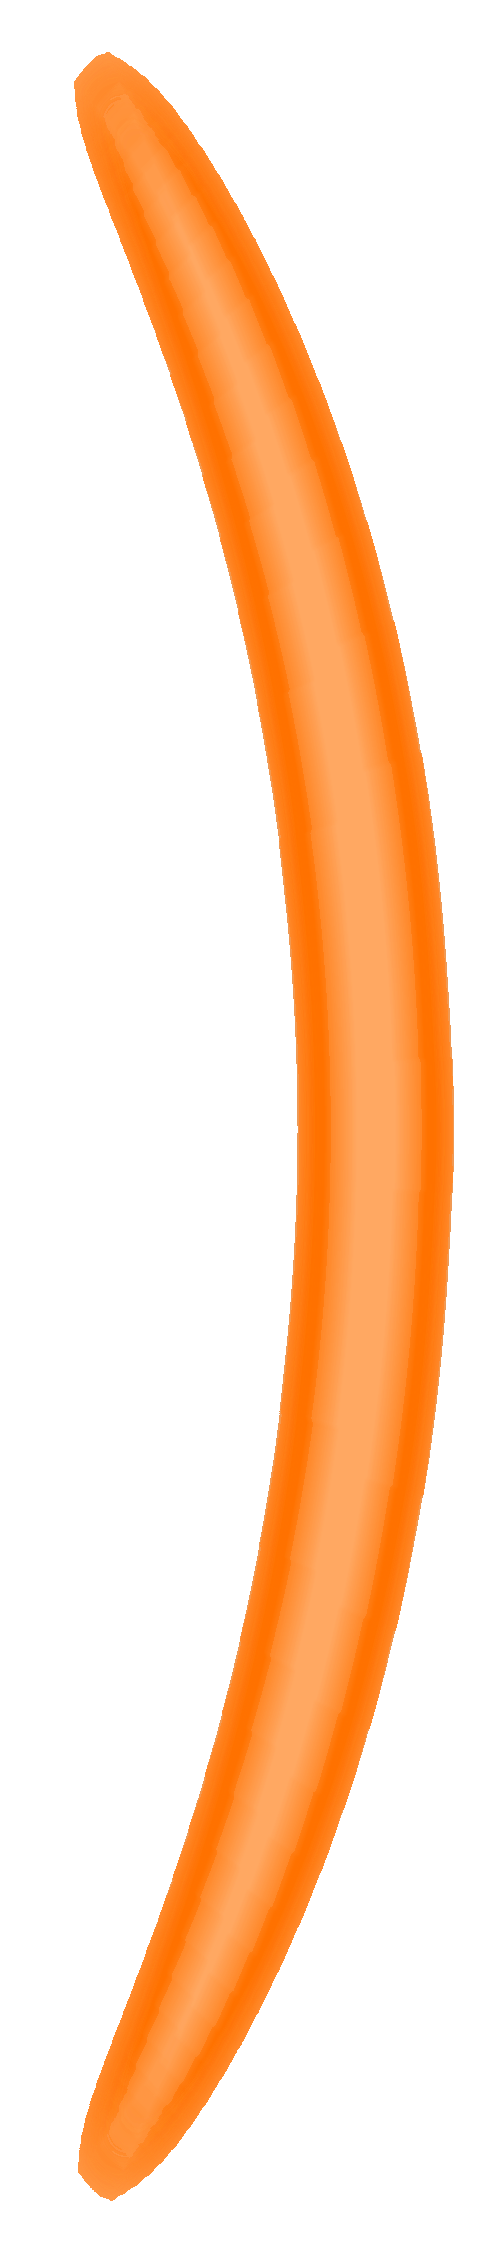
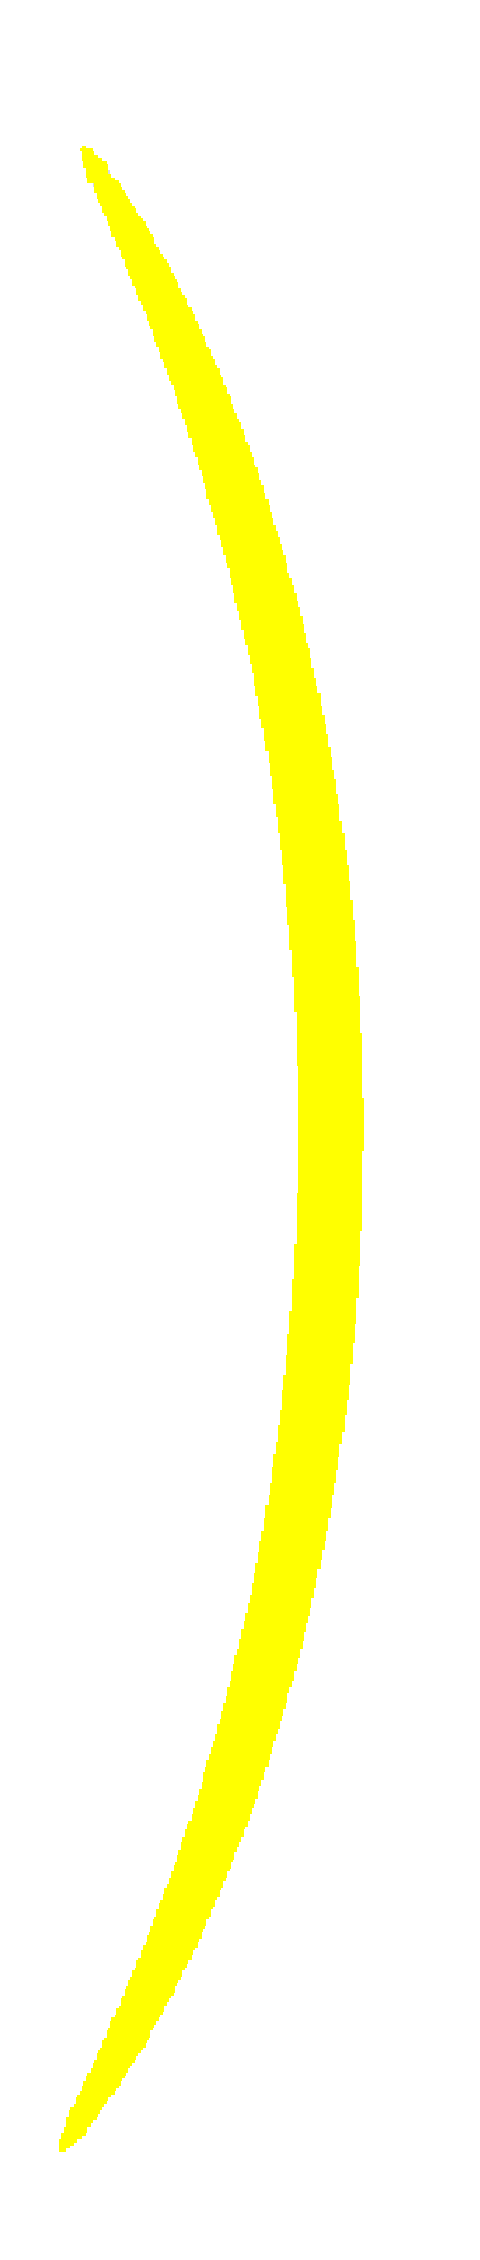
visualの変更

Changed region(s): [[0.125, 0.0, 0.9688, 0.9912]]

diff --git a/Ability.cpp b/Ability.cpp
@@ -13,7 +13,7 @@ void Bubble::Init() {
 	Longpressframe = 0;
 }
 void Bubble::Make(Player& players, Screen& screen) {
-	radius = 20 / screen.Zoom.x;
+	radius = 8 / screen.Zoom.x;
 	for (int i = 0; i < kBubbleMax; i++){
 		if (Longpressframe >= 20 && Longpressframe % kBubbleInterval == 0 && isOccur[i] == false){
 			pos[i].x = players.center.x + cosf(Degree(players.deg)) * (players.Length + kBubbleDistance / screen.Zoom.x);
@@ -72,7 +72,7 @@ void Slash::Init() {
 		{-1, 2.5},
 		{ 1, 2.5}
 	};
-	spd = 3.0f;
+	spd = 5.0f;
 	delayframe = 0;
 	shotframe = 0;
 	isOccur = false;
@@ -255,12 +255,12 @@ void Beam::Process(Player& players, Screen& screen) {
 }
 void Beam::Draw(Screen& screen) {
 	if (isOccur == true) {
-		screen.DrawQuad2Renban(pos1, Lefttop1, 0, 420, 2940, kBeamTimeMax / 10, 10, shotframe, beamImage, WHITE);
-		screen.DrawQuad2Renban(pos2, Lefttop2, 0, 420, 2940, kBeamTimeMax / 10, 10, shotframe, beamImage, WHITE);
+		screen.DrawQuad2Renban(pos1, Lefttop1, 0, 420, 2940, 10, kBeamTimeMax / 10, shotframe, beamImage, 0xFFFFFFAA);
+		screen.DrawQuad2Renban(pos2, Lefttop2, 0, 420, 2940, 10, kBeamTimeMax / 10, shotframe, beamImage, 0xFFFFFFAA);
 		for (int i = 0; i < kLineMax; i++){
 			if (life[i] > 0) {
-				screen.DrawQuad2(linepos1[i], 0, 0, 0, 0, 0, 0xFF9933FF);
-				screen.DrawQuad2(linepos2[i], 0, 0, 0, 0, 0, 0xFF9933FF);
+				screen.DrawQuad2(linepos1[i], 0, 0, 0, 0, 0, 0xF44336FF);
+				screen.DrawQuad2(linepos2[i], 0, 0, 0, 0, 0, 0xF44336FF);
 			}
 		}
 	}

diff --git a/main.cpp b/main.cpp
@@ -13,6 +13,7 @@ int WINAPI WinMain(HINSTANCE, HINSTANCE, LPSTR, int) {
 	char preKeys[256] = {0};
 
 	//
+	int background = Novice::LoadTexture("./resource./Background.png");
 	int drain = Novice::LoadAudio("./resource./ponyo.wav");
 	//
 	stage_1.Set_Map(0, 0, 2000, RED);
@@ -159,11 +160,23 @@ int WINAPI WinMain(HINSTANCE, HINSTANCE, LPSTR, int) {
 		
 
 		if (keys[DIK_Z] != 0) {
-			players.radius += 2;
+			radius += 15;
+		}
+		if (keys[DIK_X] != 0) {
+			radius -= 15;
 		}
 
 		//背景描画
-		Novice::DrawBox(0, 0, SCREEN_WIDTH, SCREEN_HEIGHT, 0.0f, 0x999999FF, kFillModeSolid);
+		//Novice::DrawBox(0, 0, SCREEN_WIDTH, SCREEN_HEIGHT, 0.0f, 0x160036FF, kFillModeSolid);
+		Novice::DrawBox(0, 0, SCREEN_WIDTH, SCREEN_HEIGHT, 0.0f, 0x2B1247FF, kFillModeSolid);
+		screen.DrawEllipse(0, 0, radius, radius, 0.0f, 0x090022FF, kFillModeSolid);
+		for (int y = -4; y < 5; y++) {
+			for (int x = -4; x < 5; x++) {
+				int width = 4000;
+				int height = 3000;
+				screen.DrawQuad(x * width, y * height, x * width + width, y * height, x * width, y * height + height, x * width + width, y * height + height, 0, 0, 2000, 1500, background, BLACK);
+			}
+		}
 		stage_1.DrawMap(screen);
 		for (int i = 0; i < Figure::FigureMax; i++) {
 			if (ellipse[i].cheakdraw(players,ellipse[i].position,screen,ellipse[i].flag)) {

diff --git a/Ability.h b/Ability.h
@@ -8,10 +8,10 @@ public:
 		Init();
 	}
 
-	static const int kBubbleMax = 12;
+	static const int kBubbleMax = 30;
 	static const int kBubbleTimeMax = 120;
 	static const int kBubbleStanFrame = 120;
-	static const int kBubbleInterval = 6;
+	static const int kBubbleInterval = 2;
 	static const int kBubbleDistance = 100;
 
 	Vec2 pos[kBubbleMax];
@@ -21,8 +21,8 @@ public:
 	bool isRelease[kBubbleMax];
 	int Shotframe[kBubbleMax];
 	int Longpressframe;
-	unsigned int color = 0xFF6E00FF;
-	float spd = 3;
+	unsigned int color = 0xE5C210FF;
+	float spd = 5;
 	float radius;
 
 	void Init();
@@ -72,7 +72,7 @@ public:
 	}
 
 	static const int kBeamSizeMax = 120;
-	static const int kBeamTimeMax = 120;
+	static const int kBeamTimeMax = 90;
 	static const int kBeamInterval = 180;
 
 	static const int kLineMax = 50;

diff --git a/Screen.cpp b/Screen.cpp
@@ -74,10 +74,10 @@ void Screen::DrawEllipse(float x, float y, float radiusX, float radiusY, float a
 }
 
 void Screen::DrawSprite(int x, int y, int textureHandle, int scaleX, int scaleY, int angle, unsigned int color) {
-	Novice::DrawSprite( 
-		x + Worldcenter.x + ScreenShake.x, 
-		y * -1 + Worldcenter.y - ScreenShake.y,  
-		textureHandle,  scaleX,  scaleY,  angle,  color);
+	Vec2 tmp(x - Scroll.x, y - Scroll.y);
+	x = tmp.x * Zoom.x + Worldcenter.x + ScreenShake.x;
+	y = tmp.y * Zoom.y * -1 + Worldcenter.y - ScreenShake.y;
+	Novice::DrawSprite(x, y , textureHandle, scaleX, scaleY, angle, color);
 }
 
 void Screen::DrawSpriteRect(int destX, int destY, int srcX, int srcY, int srcW, int srcH, int textureHandle, int scaleX, int scaleY, int angle, unsigned int color) {

diff --git a/Particle.cpp b/Particle.cpp
@@ -41,7 +41,7 @@ void PlayerP::ParticleProcess(Player& players, Screen& screen) {
 void PlayerP::DrawParticle(Screen& screen) {
     for (int i = 0; i < PARTICLE_MAX; i++) {
         if (life[i] > 0) {
-            screen.DrawEllipse(pos[i].x, pos[i].y, radius[i], radius[i], 0.0f, 0xFF6E00FF, kFillModeSolid);
+            screen.DrawEllipse(pos[i].x, pos[i].y, radius[i], radius[i], 0.0f, 0xE5C210FF, kFillModeSolid);
         }
     }
 }
